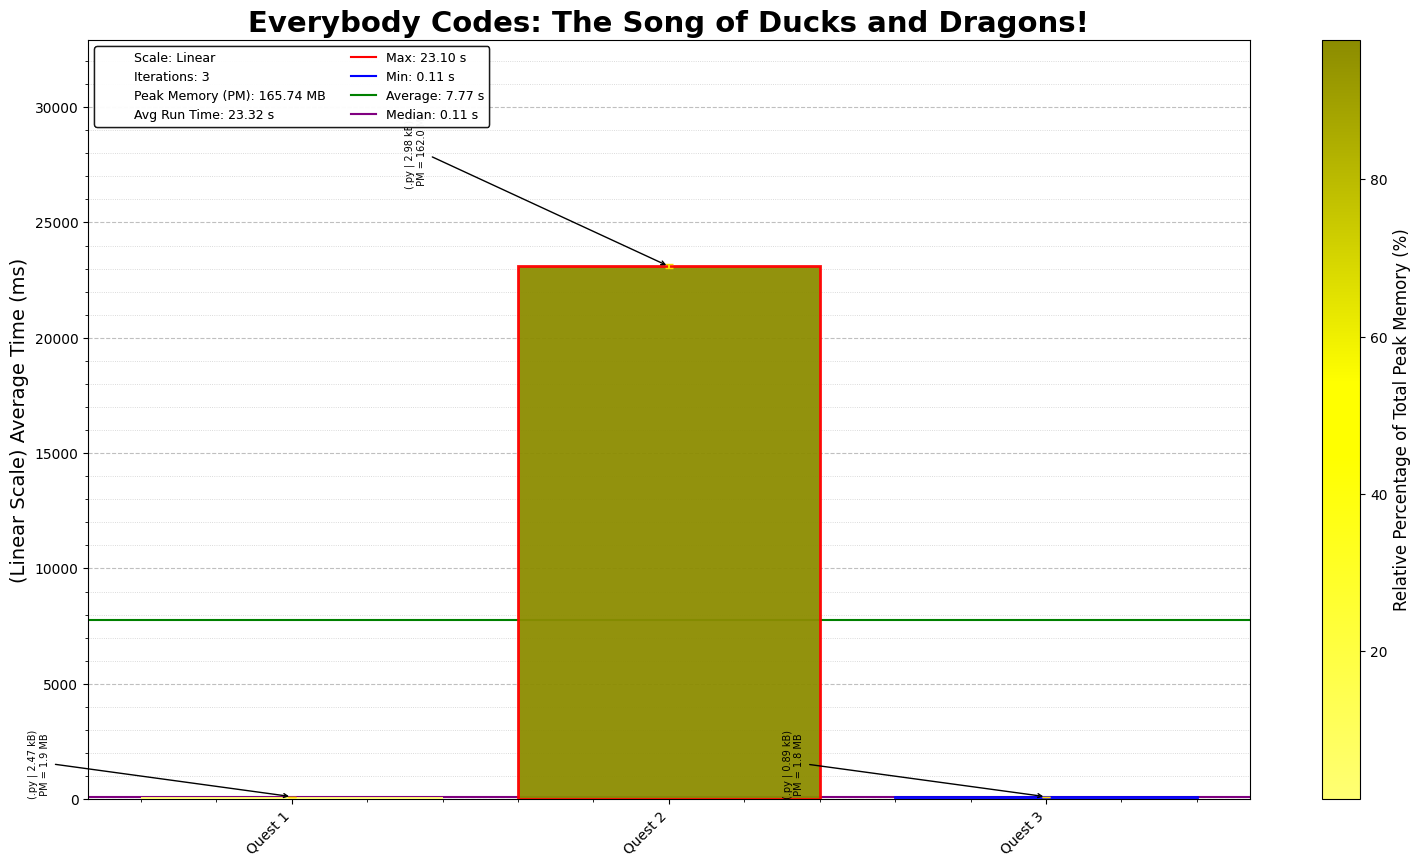
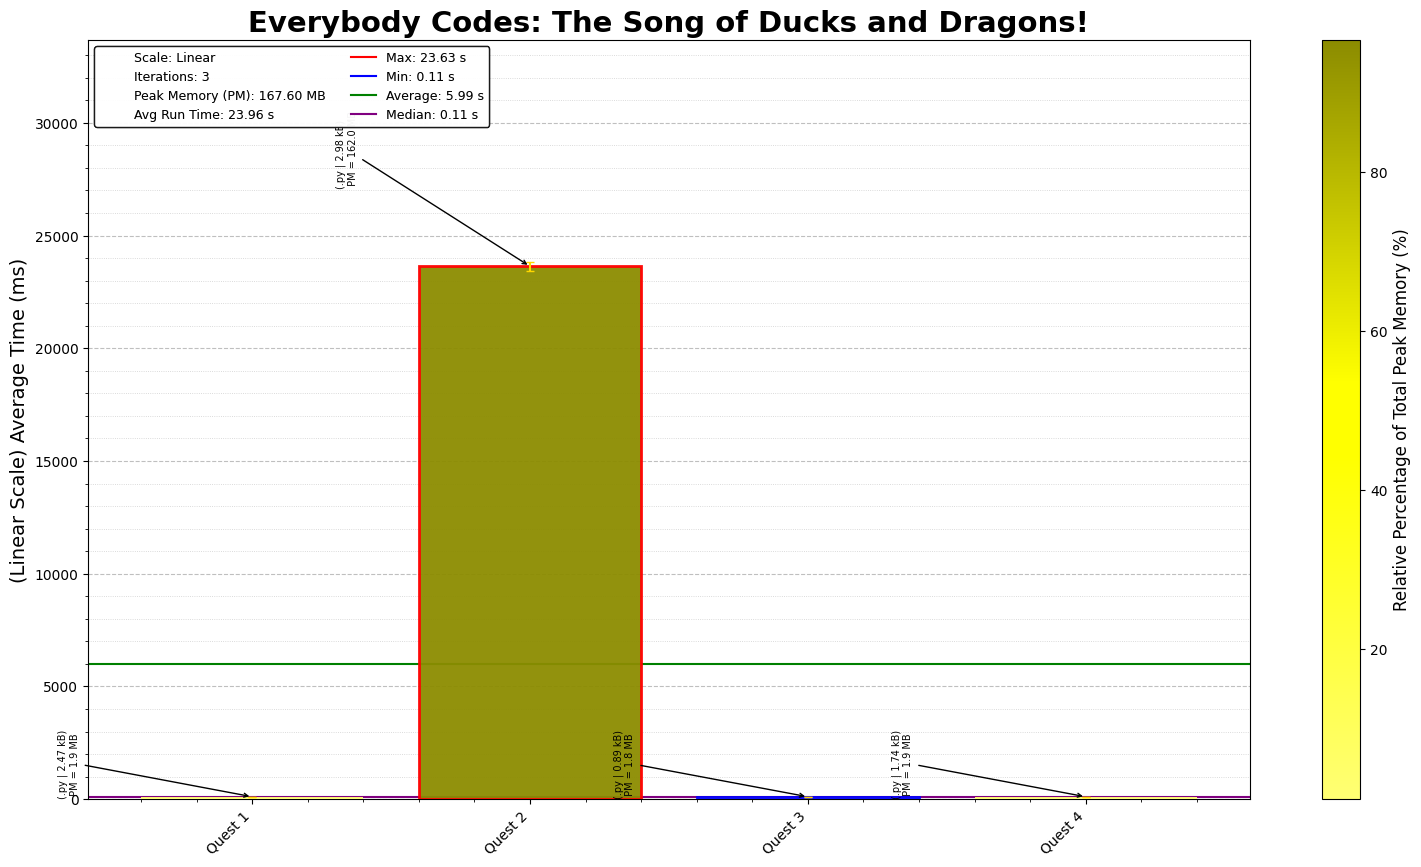
EC 2025 Quest 04: Teeth of the Wind

diff --git a/2025/04/2025Day04.py b/2025/04/2025Day04.py
@@ -1,0 +1,51 @@
+"""Everybody Codes - Quest 4, Year 2025
+Solution Started: November 7, 2025
+Puzzle Link: https://everybody.codes/event/20252/quests/4
+Solution by: Abbas Moosajee
+Brief: [Teeth of the Wind]"""
+
+#!/usr/bin/env python3
+from pathlib import Path
+from math import prod, ceil, floor
+
+# List of input file names
+input_files = ["Day04_input_p1.txt", "Day04_input_p2.txt", "Day04_input_p3.txt"]
+
+def parse_input(input_str: str) -> list[int]:
+    return [int(x) for x in input_str]
+
+# Read and split the input data into individual lists
+input_data_p1, input_data_p2, input_data_p3 = [
+    open(Path(__file__).parent / file).read().strip().split('\n')
+    for file in input_files
+]
+
+def build_gears(gear_list):
+    return [[int(i), int(i)] for i in gear_list]
+
+def calc_gear_ratio(gears):
+    return prod(a[1] / b[0] for a, b in zip(gears, gears[1:]))
+
+def solve_quest(input_gears, part):
+    if part == 1:
+        parsed_gears = build_gears(input_gears)
+        gear_ratio = calc_gear_ratio(parsed_gears)
+        final_gear_turns = int(gear_ratio * 2025)
+    elif part == 2:
+        parsed_gears = build_gears(input_gears)
+        gear_ratio = calc_gear_ratio(parsed_gears)
+        final_gear_turns = ceil(10000000000000 / gear_ratio)
+    elif part == 3:
+        parsed_gears = [tuple(map(int, line.split("|"))) for line in input_gears]
+        speed = 1
+        (start_gear,), *between, (end_gear,) = parsed_gears
+        for gear in between:
+            speed *= gear[1] / gear[0]
+
+        final_gear_turns = floor(100 * speed * start_gear / end_gear)
+    return final_gear_turns
+
+
+print("Quest 04, P1:", solve_quest(input_data_p1, 1))
+print("Quest 04, P2:", solve_quest(input_data_p2, 2))
+print("Quest 04, P3:", solve_quest(input_data_p3, 3))

diff --git a/2025/README_2025.md b/2025/README_2025.md
@@ -9,3 +9,4 @@ This repository contains coding solutions for the 2025 Everybody Codes. Each day
 1. **Day 1 - Whispers in the Shell**: Fairly simple challenges for list indexing and manipulation.
 2. **Day 2 - From Complex to Clarity**: Vector Math, fairly simple execution once you get over the hurdle of integer and div math.
 3. **Day 3 - The Deepest Fit**: Why write your own functions, when python can do it for you. LEARN PYTHON Kids
+4. **Day 4 - Teeth of the Wind**: MATH IS FUN
